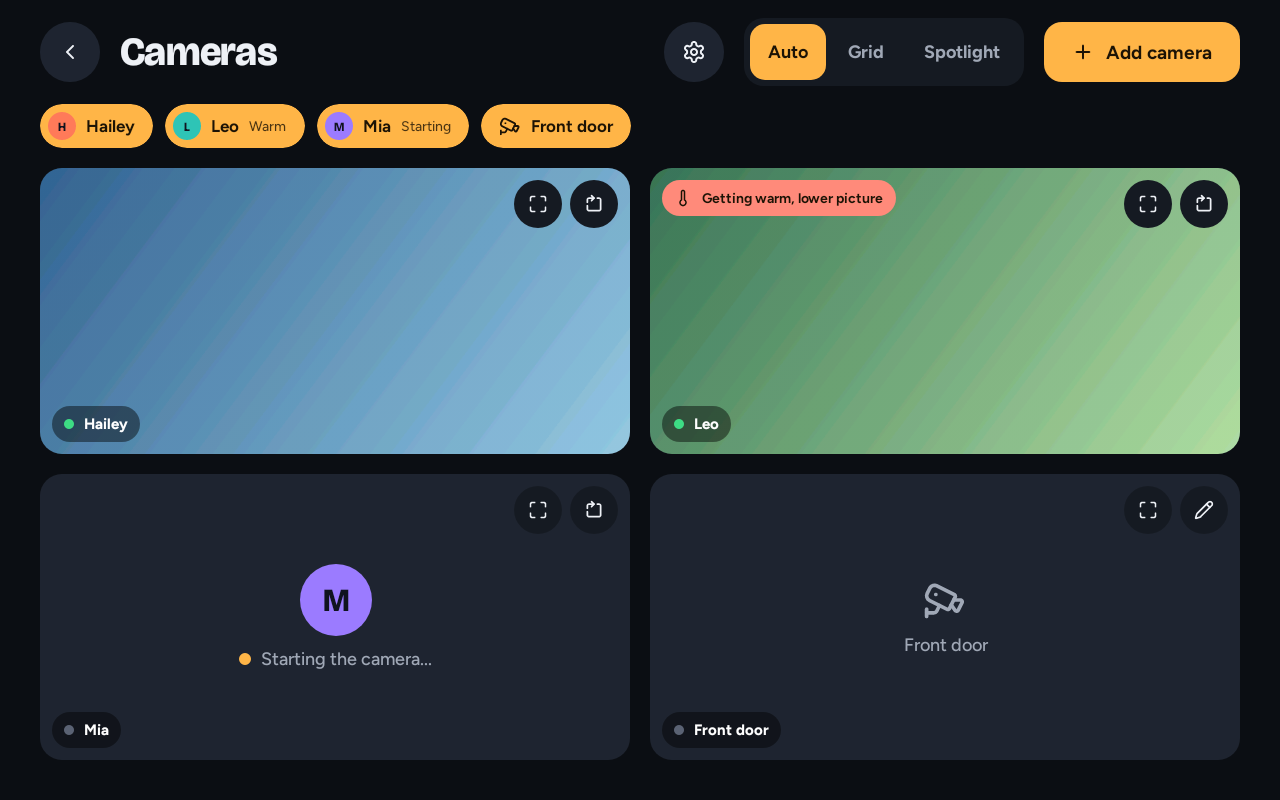
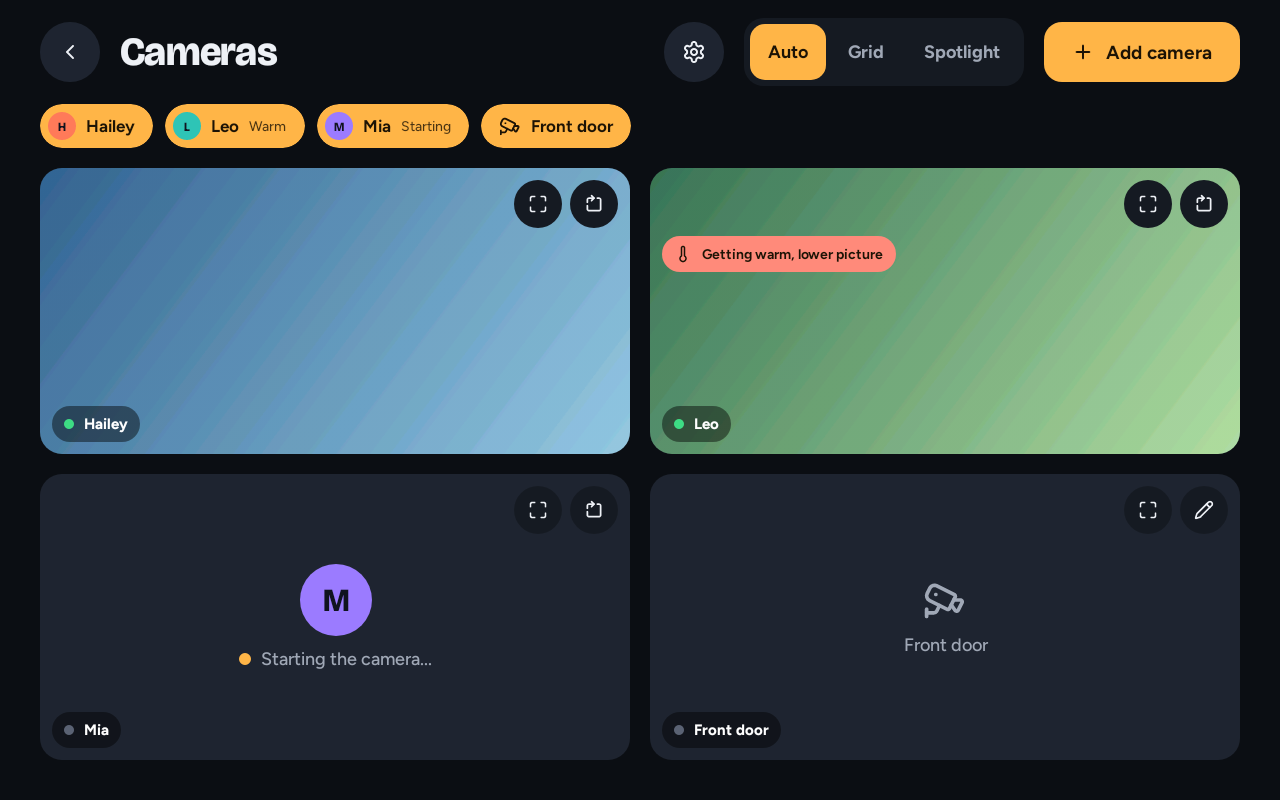
cameras: keep the warm chip clear of a tile's corner buttons

Changed region(s): [[0.5, 0.2188, 0.7188, 0.3438]]

diff --git a/app/src/main/java/com/nbaltas/nickos/ui/master/CamTile.kt b/app/src/main/java/com/nbaltas/nickos/ui/master/CamTile.kt
@@ -152,7 +152,11 @@ fun CamTile(
             }
         }
 
-        if (tablet != null && display == TileDisplay.HOT && !leaving) WarmBadge(compact, Modifier.align(Alignment.TopStart).padding(12.dp))
+        if (tablet != null && display == TileDisplay.HOT && !leaving) WarmBadge(
+            compact,
+            // Below the corner buttons (48dp tall, 12dp from the top) so the chip never covers them; a compact tile has none.
+            Modifier.align(Alignment.TopStart).padding(start = 12.dp, end = 12.dp, top = if (compact) 12.dp else 68.dp, bottom = 12.dp),
+        )
     }
 }
 
